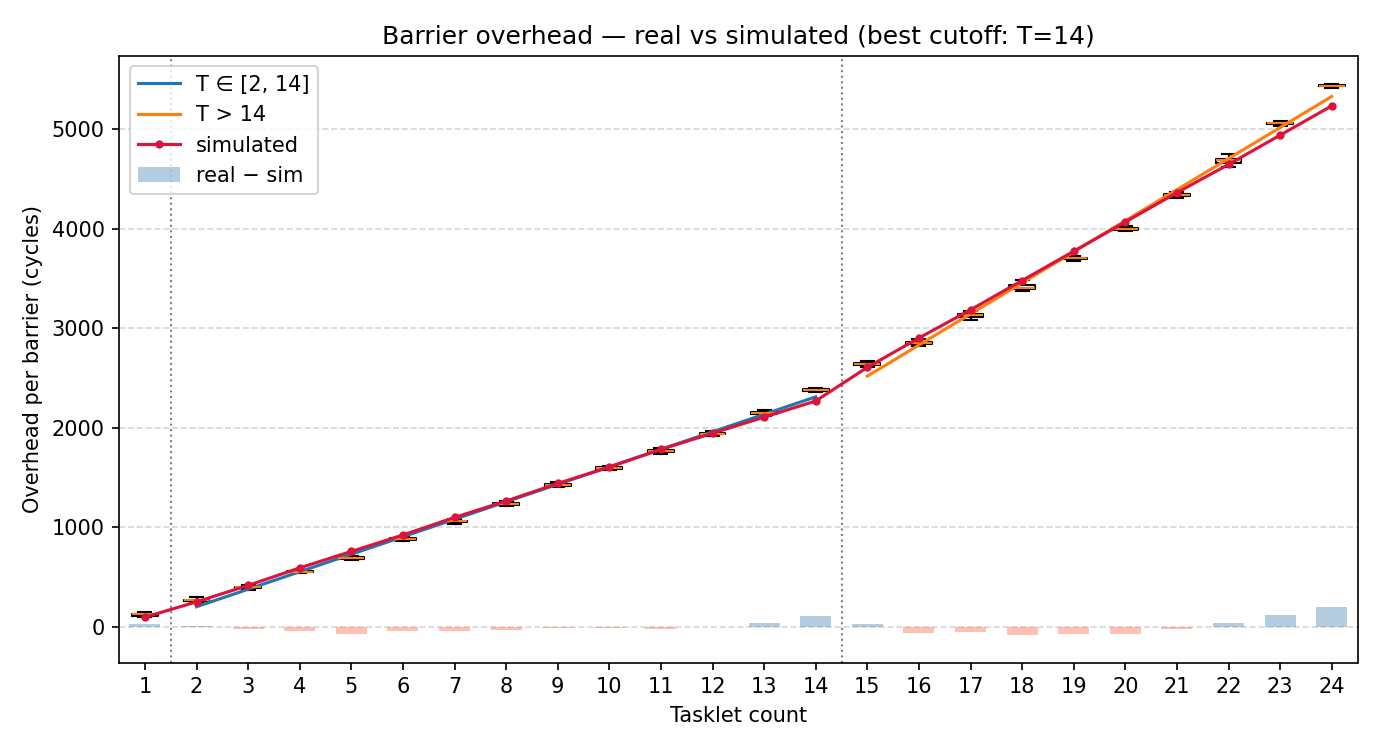
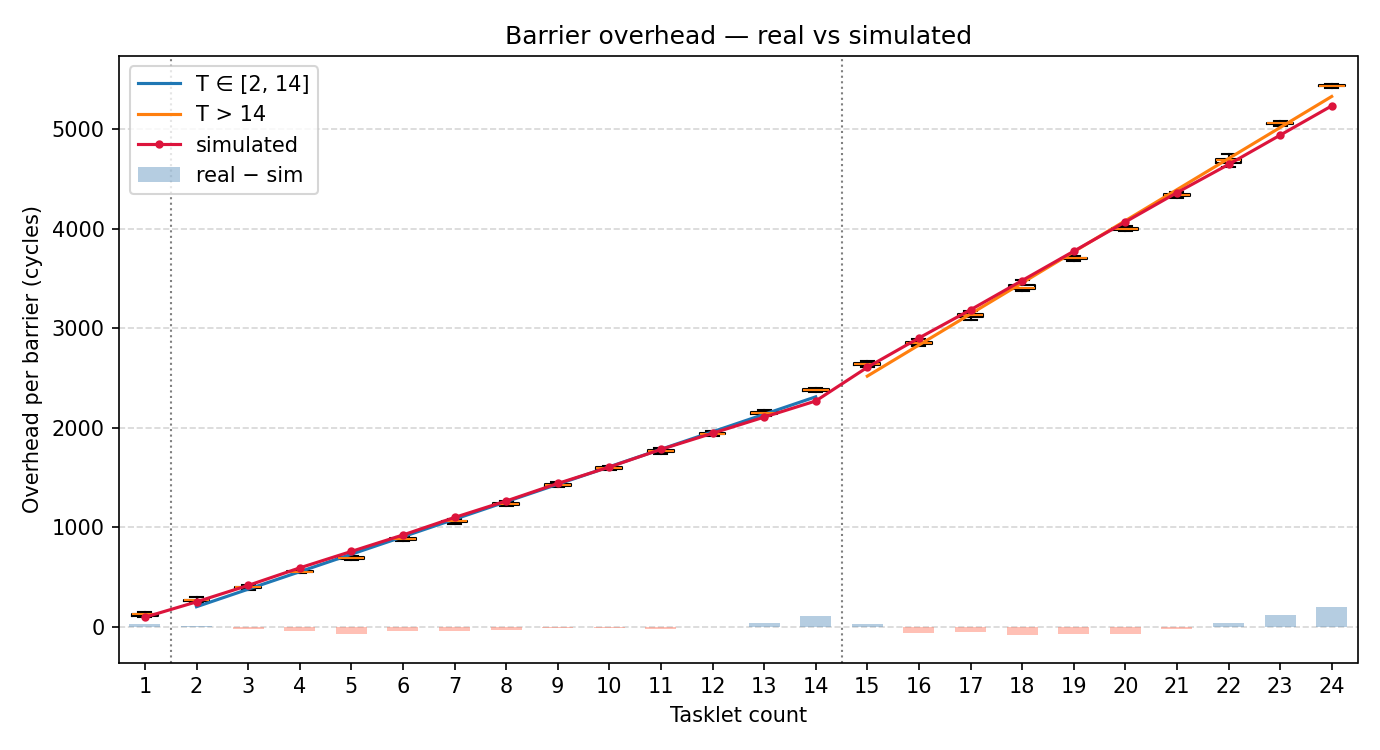
Rename plot

Changed region(s): [[0.2804, 0.0307, 0.8101, 0.0613]]

diff --git a/experiments/upmemcm/plot_barrier.py b/experiments/upmemcm/plot_barrier.py
@@ -157,7 +157,7 @@ ax_main.bar(sim_positions, diff_vals,
 add_separators(ax_main, best_cutoff)
 ax_main.set_xlabel("Tasklet count")
 ax_main.set_ylabel("Overhead per barrier (cycles)")
-ax_main.set_title(f"Barrier overhead — real vs simulated (best cutoff: T={best_cutoff})")
+ax_main.set_title("Barrier overhead — real vs simulated")
 ax_main.grid(axis="y", linestyle="--", alpha=0.5)
 ax_main.legend(loc="upper left")
 
